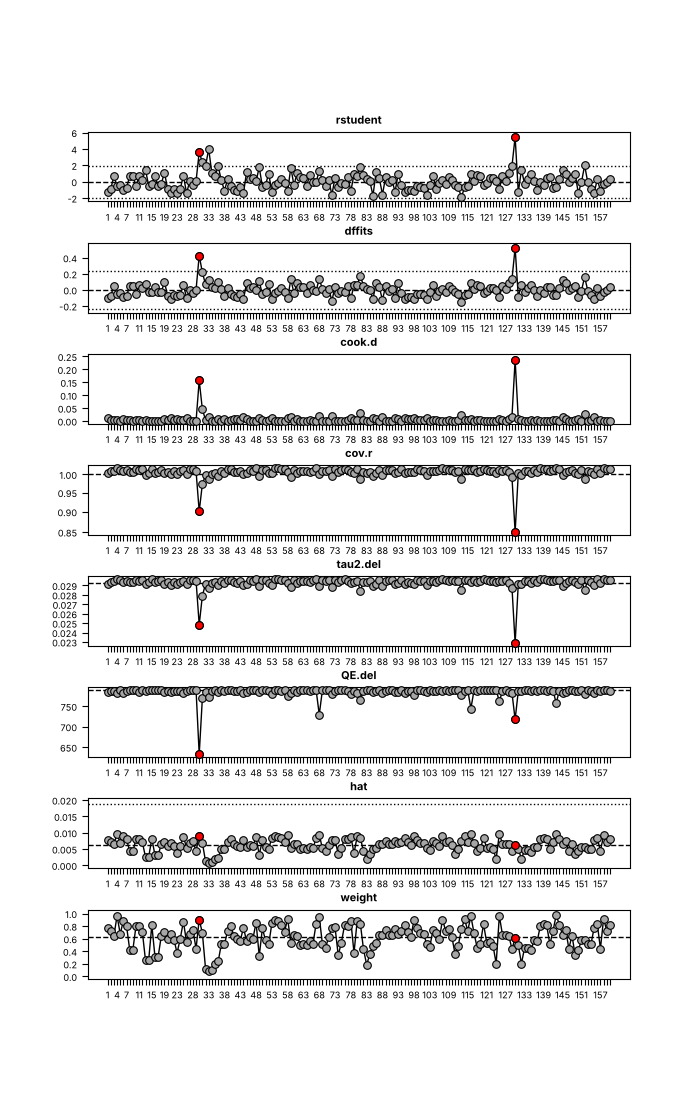
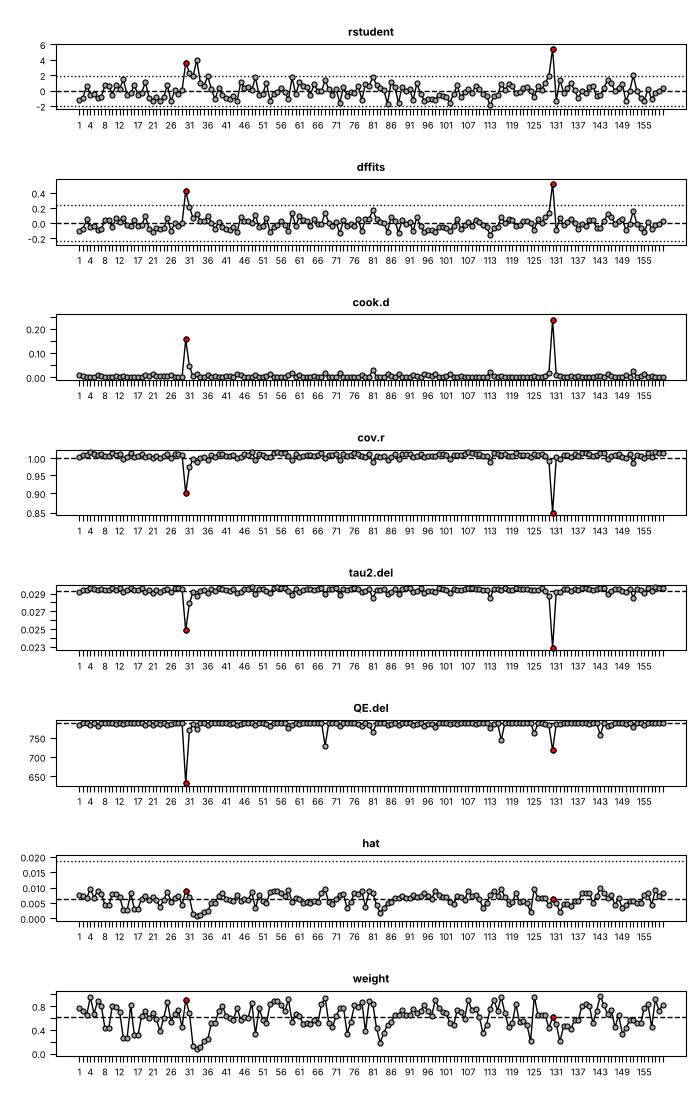
fix(plot): lay out plot_infl panels like R
plot_infl now mimics par(mfrow): panels fill the area with R's fixed
gaps, text and points are scaled (0.83 for 2x2, 0.66 for more rows or
columns), overlapping tick labels are thinned like axis(), and a new
mfrow argument selects the layout. The gallery influence figure uses
an 8x1 layout as in the metafor documentation.

Claude-Session: https://claude.ai/code/session_012qws9FvN5PwN2E5eQnZ8xk

Changed region(s): [[0.03, 0.0309, 0.99, 0.9891], [0.51, 0.0, 0.54, 0.0309]]

diff --git a/src/metafopy/plot/infl.py b/src/metafopy/plot/infl.py
@@ -46,6 +46,14 @@ def mfrow_cex(nrow: int, ncol: int) -> float:
     return 0.83 if nrow == 2 and ncol == 2 else 1.0
 
 
+def grid_hspace(area: matplotlib.axes.Axes, nrow: int, cex: float) -> float:
+    """The ``hspace`` of ``nrow`` panels: R leaves a gap of fixed height (about 1.06 in at ``cex = 1``) between its panels, whatever their number."""
+    gap = 1.06 * cex
+    height = area.get_position().height * area.figure.bbox.height / area.figure.dpi
+    panel_height = (height - (nrow - 1) * gap) / nrow
+    return gap / panel_height if panel_height > 0 else 0.6
+
+
 def n2mfrow(n: int) -> tuple[int, int]:
     """R's ``n2mfrow()``."""
     if n <= 3:
@@ -87,6 +95,7 @@ def panel(
     bg: str,
     bg_infl: str,
     col_na: str,
+    cex: float = 1.0,
     logy: bool = False,
 ) -> None:
     not_na = ~numpy.isnan(zi_all)
@@ -99,7 +108,7 @@ def panel(
         zi, infl, labs, n = zi_all, is_infl_all, ids, int(zi_all.shape[0])
     pos = numpy.arange(1, n + 1, dtype=float)
     metafopy.plot.plain.plain_plot(
-        ax, (1.0, float(n)), ylim, '', '', main, xaxt=True, yaxt=True, logy=logy, xat=pos, xlabels=labs, thin_xlabels=las not in (2, 3)
+        ax, (1.0, float(n)), ylim, '', '', main, xaxt=True, yaxt=True, logy=logy, xat=pos, xlabels=labs, thin_xlabels=las not in (2, 3), thin_ylabels=True
     )
     if las in (2, 3):
         ax.tick_params(axis='x', labelrotation=90)
@@ -111,10 +120,10 @@ def panel(
     metafopy.plot.draw.line(ax, pos, zi)
     for xp, yp in zip(pos, zi, strict=True):
         if not math.isnan(yp):
-            metafopy.plot.draw.pts(ax, float(xp), float(yp), pch=pch, bg=bg)
+            metafopy.plot.draw.pts(ax, float(xp), float(yp), pch=pch, bg=bg, cex=cex)
     for xp, yp, f in zip(pos, zi, infl, strict=True):
         if f and not math.isnan(yp):
-            metafopy.plot.draw.pts(ax, float(xp), float(yp), pch=pch, bg=bg_infl)
+            metafopy.plot.draw.pts(ax, float(xp), float(yp), pch=pch, bg=bg_infl, cex=cex)
 
 
 def plot_infl(
@@ -242,14 +251,15 @@ def plot_infl(
         else:
             yl = (0.0, zmax * 1.05)
             hl = [(100 / k, 'dashed')]
-        panel(a, zi, infl, id_list, main=name, ylim=yl, hlines=hl, logy=(which == 4 and logcov), **common)
+        panel(a, zi, infl, id_list, main=name, ylim=yl, hlines=hl, logy=(which == 4 and logcov), cex=cex_inf, **common)
 
     axes_inf: list[matplotlib.axes.Axes] = []
     if which_inf:
         nr, nc = MFROW[len(which_inf)] if mfrow is None else mfrow
         if nr * nc < len(which_inf):
             raise metafopy.errors.InputError("Argument 'mfrow' has too few panels for the diagnostics.")
-        grid = metafopy.plot.draw.subaxes(area, nr, nc, hspace=0.6, wspace=0.3)
+        cex_inf = mfrow_cex(nr, nc)
+        grid = metafopy.plot.draw.subaxes(area, nr, nc, hspace=grid_hspace(area, nr, cex_inf), wspace=0.3)
         flat = [a for row in grid for a in row]
         with matplotlib.rc_context({'font.size': metafopy.plot.draw.base_fontsize() * mfrow_cex(nr, nc)}):
             for a, which in zip(flat, which_inf, strict=False):
@@ -262,7 +272,8 @@ def plot_infl(
         nr, nc = n2mfrow(len(which_dfbs))
         # with the diagnostics also drawn (or dfbsnew) metafor starts a new page for the DFBETAS
         target = matplotlib.pyplot.figure().add_subplot(111) if (which_inf or dfbsnew) else area
-        grid = metafopy.plot.draw.subaxes(target, nr, nc, hspace=0.6, wspace=0.3)
+        cex_dfbs = mfrow_cex(nr, nc)
+        grid = metafopy.plot.draw.subaxes(target, nr, nc, hspace=grid_hspace(target, nr, cex_dfbs), wspace=0.3)
         flat = [a for row in grid for a in row]
         names = list(x.coef_names)
         with matplotlib.rc_context({'font.size': metafopy.plot.draw.base_fontsize() * mfrow_cex(nr, nc)}):
@@ -276,6 +287,7 @@ def plot_infl(
                     main=f'dfbs:  {names[j - 1]}',
                     ylim=(float(numpy.nanmin(zi)) * 1.05, float(numpy.nanmax(zi)) * 1.05),
                     hlines=[(0.0, 'dashed'), (1.0, 'dotted'), (-1.0, 'dotted')],
+                    cex=cex_dfbs,
                     **common,
                 )
                 axes_dfbs.append(a)

diff --git a/src/metafopy/plot/draw.py b/src/metafopy/plot/draw.py
@@ -494,22 +494,28 @@ def overlapping_labels(
     ax: matplotlib.axes.Axes,
     at: numpy.ndarray,
     labels: collections.abc.Sequence[str],
-    ux: tuple[float, float],
+    limits: tuple[float, float],
     fontsize: float,
+    *,
+    vertical: bool = False,
 ) -> list[bool]:
     """Which tick labels are left out because they would overlap: R's ``axis()`` skips a label that comes closer than an "m" to the previous
-    one drawn (half an "m" here; the ticks stay)."""
-    fig_width = ax.figure.bbox.width * 72.0 / ax.figure.dpi
-    points_per_unit = ax.get_position().width * fig_width / (ux[1] - ux[0])
+    one drawn (the ticks stay)."""
+    box = ax.get_position()
+    fig_inches = (ax.figure.bbox.height if vertical else ax.figure.bbox.width) / ax.figure.dpi
+    points_per_unit = (box.height if vertical else box.width) * fig_inches * 72.0 / (limits[1] - limits[0])
 
-    def text_width(s: str) -> float:
-        return float(matplotlib.textpath.TextPath((0, 0), s, size=fontsize).get_extents().width) if s.strip() else 0.0
+    def extent(s: str) -> float:
+        if not s.strip():
+            return 0.0
+        box = matplotlib.textpath.TextPath((0, 0), s, size=fontsize).get_extents()
+        return float(box.height if vertical else box.width)
 
-    gap = text_width('M') / 2
+    gap = float(matplotlib.textpath.TextPath((0, 0), 'M', size=fontsize).get_extents().width)
     hidden: list[bool] = []
     previous_end = -math.inf
     for x, label in zip(at, labels, strict=True):
-        half = text_width(label) / 2
+        half = extent(label) / 2
         centre = float(x) * points_per_unit
         overlaps = centre - half < previous_end + gap
         hidden.append(overlaps)
@@ -530,6 +536,7 @@ def plain_axes(
     bty: str = 'o',
     cex_axis: float = 1.0,
     thin_xlabels: bool = True,
+    thin_ylabels: bool = False,
 ) -> None:
     """The axes of R's ``plot()``: user coordinates ``ux``/``uy``, ticks at ``xat``/``yat`` (``None`` = no axis), and a box (``bty``)."""
     ax.set_xlim(ux)
@@ -562,7 +569,11 @@ def plain_axes(
         at = numpy.asarray(yat, dtype=float)
         ax.set_yticks(at)
         if ylabels is not None:
-            ax.set_yticklabels(list(ylabels), fontsize=base_fontsize() * cex_axis)
+            texts = ax.set_yticklabels(list(ylabels), fontsize=base_fontsize() * cex_axis)
+            if thin_ylabels:
+                hidden = overlapping_labels(ax, at, ylabels, uy, base_fontsize() * cex_axis, vertical=True)
+                for text, hide in zip(texts, hidden, strict=True):
+                    text.set_visible(not hide)
         ax.tick_params(axis='y', length=4.0, labelsize=base_fontsize() * cex_axis)
 
 

diff --git a/src/tests/test_plots.py b/src/tests/test_plots.py
@@ -688,7 +688,8 @@ def check_infl(r: typing.Any, ref: dict[str, typing.Any], what: str, dfbs: bool 
     rec = ref['rec']
     # auditme: accept[literal-duplication] branches mirror metafor, which repeats these option lists
     plotref.check_all(axes, rec, what, skip={'axis', 'usr', 'mtext'}, compare_col=False)
-    tick_labels = [[t.get_text() for t in a.get_xticklabels()] for a in axes if a.get_xticks().size]
+    # the labels asked for, whether or not overlapping ones are hidden when drawn
+    tick_labels = [[tick.label1.get_text() for tick in a.xaxis.get_major_ticks()] for a in axes if a.get_xticks().size]
     exp = [[str(v) for v in plotref.flat(a['labels'])] for a in rec['axis'] if a['side'] == 1]
     assert tick_labels == exp, f'{what}: x tick labels'
     plots = rec['plot']
@@ -749,6 +750,17 @@ def test_plot_infl_text_size_follows_the_layout(fits: dict[str, metafopy.RMAResu
     r = metafopy.plot.plot_infl(metafopy.influence(fits['re']), plotinf=[1], ax=single)
     assert r.axes[0].title.get_fontsize() == pytest.approx(base * 1.2)
     matplotlib.pyplot.close('all')
+
+
+def test_plot_infl_one_column_layout_matches_the_gap_of_r(fits: dict[str, metafopy.RMAResult]) -> None:
+    fig, area = matplotlib.pyplot.subplots(figsize=(7, 11))
+    area.set_position((0.08, 0.04, 0.9, 0.92))
+    r = metafopy.plot.plot_infl(metafopy.influence(fits['re']), mfrow=(8, 1), ax=area)
+    gaps = [(a.get_position().y0 - b.get_position().y1) * 11 for a, b in zip(r.axes[:-1], r.axes[1:], strict=True)]
+    assert gaps == pytest.approx([1.06 * 0.66] * 7)
+    shown = [len([t for t in a.get_yticklabels() if t.get_visible()]) for a in r.axes]
+    assert all(2 <= n <= 6 for n in shown)
+    matplotlib.pyplot.close(fig)
 
 
 def test_ax_ticks_zero_is_exact() -> None:

diff --git a/src/metafopy/plot/plain.py b/src/metafopy/plot/plain.py
@@ -34,6 +34,7 @@ def plain_plot(
     cex_lab: float = 1.0,
     cex_axis: float = 1.0,
     thin_xlabels: bool = True,
+    thin_ylabels: bool = False,
 ) -> tuple[FloatArray | None, FloatArray | None]:
     """``plot(NA, xlim, ylim, xlab, ylab, main, bty, xaxt, yaxt)``; returns the ticks (``axTicks(1)``, ``axTicks(2)``) drawn."""
     ux = (float(xlim[0]), float(xlim[1])) if xaxs_i else metafopy.plot.rutils.usr_range(float(xlim[0]), float(xlim[1]))
@@ -60,6 +61,7 @@ def plain_plot(
         bty=bty,
         cex_axis=cex_axis,
         thin_xlabels=thin_xlabels,
+        thin_ylabels=thin_ylabels and not logy,
     )
     if logy:
         ax.yaxis.set_minor_locator(matplotlib.ticker.NullLocator())

diff --git a/docs/guide/gallery.md b/docs/guide/gallery.md
@@ -403,6 +403,7 @@ Source: <https://www.metafor-project.org/doku.php/plots:plot_of_influence_diagno
 ```python
 res_i = rma(ri='ri', ni='ni', measure='ZCOR', data=datasets.load('dat.mcdaniel1994'))
 fig, ax = matplotlib.pyplot.subplots(figsize=(7, 11))
+ax.set_position((0.08, 0.04, 0.9, 0.92))  # the area the panels fill
 plot_infl(influence(res_i), ax=ax, mfrow=(8, 1))
 fig.savefig('influence.png', dpi=DPI)
 ```
